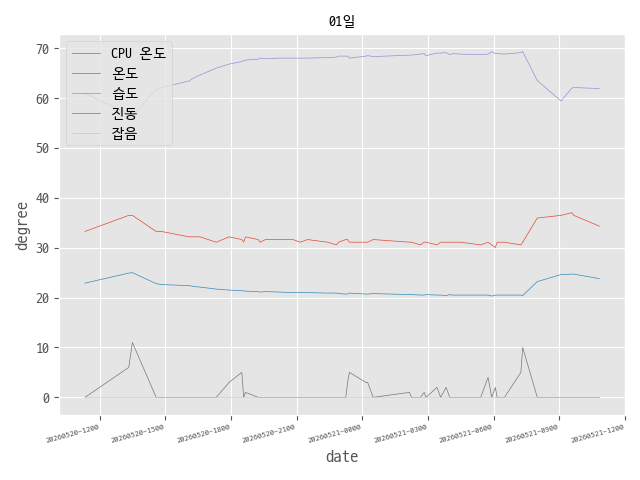
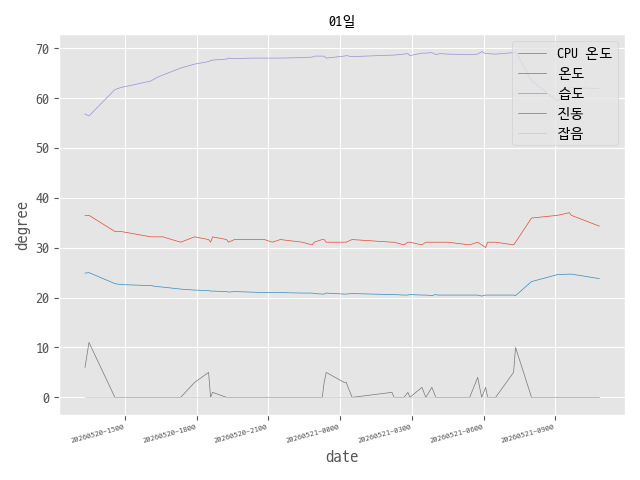
monitor_20260521 11:38

diff --git a/index.html b/index.html
@@ -1,1 +1,1 @@
-<!doctype html><html><head><meta charset="utf-8"><meta https-equiv="refresh" content="120"><title>SPT 환경 측정 데이터</title></head><body><h1>SPT 환경 측정 데이터</h1><br><h2>측정시간 : 20260521-1108</h2><table border = "1"><tr><td><img src=https://redfivezero.github.io/spt/monitor-01D.png></td><td><img src=https://redfivezero.github.io/spt/monitor-03D.png></td><td><img src=https://redfivezero.github.io/spt/monitor-05D.png></td></tr><tr><td><img src=https://redfivezero.github.io/spt/monitor-10D.png></td><td><img src=https://redfivezero.github.io/spt/monitor-30D.png></td><td><img src=https://redfivezero.github.io/spt/monitor-90D.png></td></tr></table<table border = "1"><tr><td><img src=https://redfivezero.github.io/spt/monitor-01D-wol.png></td><td><img src=https://redfivezero.github.io/spt/monitor-03D-wol.png></td><td><img src=https://redfivezero.github.io/spt/monitor-05D-wol.png></td></tr><tr><td><img src=https://redfivezero.github.io/spt/monitor-10D-wol.png></td><td><img src=https://redfivezero.github.io/spt/monitor-30D-wol.png></td><td><img src=https://redfivezero.github.io/spt/monitor-90D-wol.png></td></tr></table/<body></html>
+<!doctype html><html><head><meta charset="utf-8"><meta https-equiv="refresh" content="120"><title>SPT 환경 측정 데이터</title></head><body><h1>SPT 환경 측정 데이터</h1><br><h2>측정시간 : 20260521-1138</h2><table border = "1"><tr><td><img src=https://redfivezero.github.io/spt/monitor-01D.png></td><td><img src=https://redfivezero.github.io/spt/monitor-03D.png></td><td><img src=https://redfivezero.github.io/spt/monitor-05D.png></td></tr><tr><td><img src=https://redfivezero.github.io/spt/monitor-10D.png></td><td><img src=https://redfivezero.github.io/spt/monitor-30D.png></td><td><img src=https://redfivezero.github.io/spt/monitor-90D.png></td></tr></table<table border = "1"><tr><td><img src=https://redfivezero.github.io/spt/monitor-01D-wol.png></td><td><img src=https://redfivezero.github.io/spt/monitor-03D-wol.png></td><td><img src=https://redfivezero.github.io/spt/monitor-05D-wol.png></td></tr><tr><td><img src=https://redfivezero.github.io/spt/monitor-10D-wol.png></td><td><img src=https://redfivezero.github.io/spt/monitor-30D-wol.png></td><td><img src=https://redfivezero.github.io/spt/monitor-90D-wol.png></td></tr></table/<body></html>